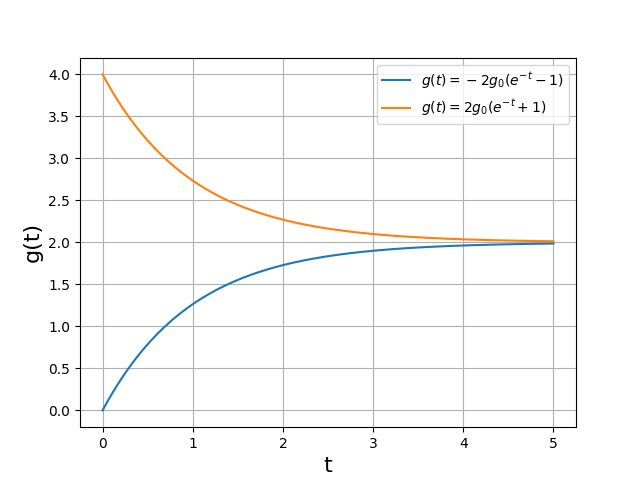
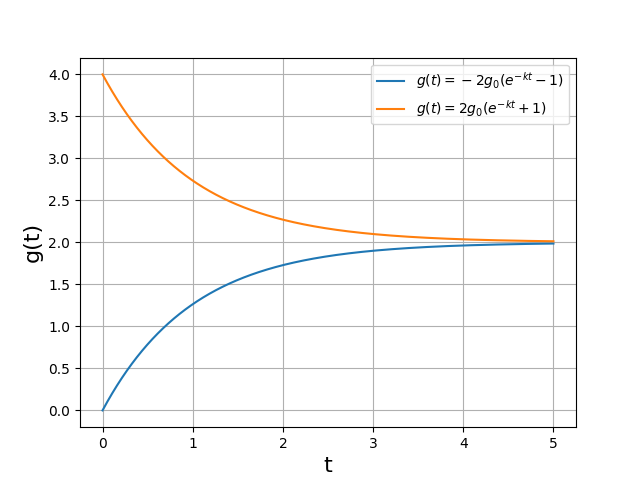
h

Changed region(s): [[0.5625, 0.125, 0.8438, 0.25], [0.8125, 0.2188, 0.8438, 0.25]]

diff --git a/ODE2.py b/ODE2.py
@@ -8,16 +8,16 @@ def concentration(t, k, g):
 
 
 def concentration_time(t, k, g, g_func):
-    C = np.log(g_func(t, g))
-    return (np.exp(-k * t + C) - g_func(t, g)) / (-k)
+    C = np.log(g_func(t, g, k))
+    return (np.exp(-k * t + C) - g_func(t, g, k)) / (-k)
 
 
-def g_func1(t, g):
-    return -2 * g * (np.exp(-t) - 1)
+def g_func1(t, g, k):
+    return -2 * g * (np.exp(-k * t) - 1)
 
 
-def g_func2(t, g):
-    return 2 * g * (np.exp(-t) + 1)
+def g_func2(t, g, k):
+    return 2 * g * (np.exp(-k * t) + 1)
 
 
 def plot_concentration(t_range, x, k, g):
@@ -98,10 +98,10 @@ plt.savefig("figures/4h.png")
 4i
 """
 plt.figure()
-g1 = [g_func1(t, 1) for t in t_range]
-g2 = [g_func2(t, 1) for t in t_range]
-plt.plot(t_range, g1, label=r"$g(t) = -2g_0(e^{-t}-1)$")
-plt.plot(t_range, g2, label=r"$g(t) = 2g_0(e^{-t}+1)$")
+g1 = [g_func1(t, 1, 1) for t in t_range]
+g2 = [g_func2(t, 1, 1) for t in t_range]
+plt.plot(t_range, g1, label=r"$g(t) = -2g_0(e^{-kt}-1)$")
+plt.plot(t_range, g2, label=r"$g(t) = 2g_0(e^{-kt}+1)$")
 plt.xlabel("t", fontsize=16)
 plt.ylabel("g(t)", fontsize=16)
 plt.grid(visible=True)
@@ -113,8 +113,8 @@ x_gt = [concentration_time(t, 1, 1, g_func1) for t in t_range]
 x_gt2 = [concentration_time(t, 1, 1, g_func2) for t in t_range]
 x = [concentration(t, 1, 1) for t in t_range]
 x2 = [concentration(t, 1, 2) for t in t_range]
-plt.plot(t_range, x_gt, "--", label=r"$g(t) = -2g_0(e^{-t}-1)$")
-plt.plot(t_range, x_gt2, "--", label=r"$g(t) = 2g_0(e^{-t}+1)$")
+plt.plot(t_range, x_gt, "--", label=r"$g(t) = -2g_0(e^{-kt}-1)$")
+plt.plot(t_range, x_gt2, "--", label=r"$g(t) = 2g_0(e^{-kt}+1)$")
 plt.plot(t_range, x, label=r"$g(t) = g = g_0$")
 plt.plot(t_range, x2, label=r"$g(t) = g = 2g_0$")
 plt.xlabel("t", fontsize=16)
